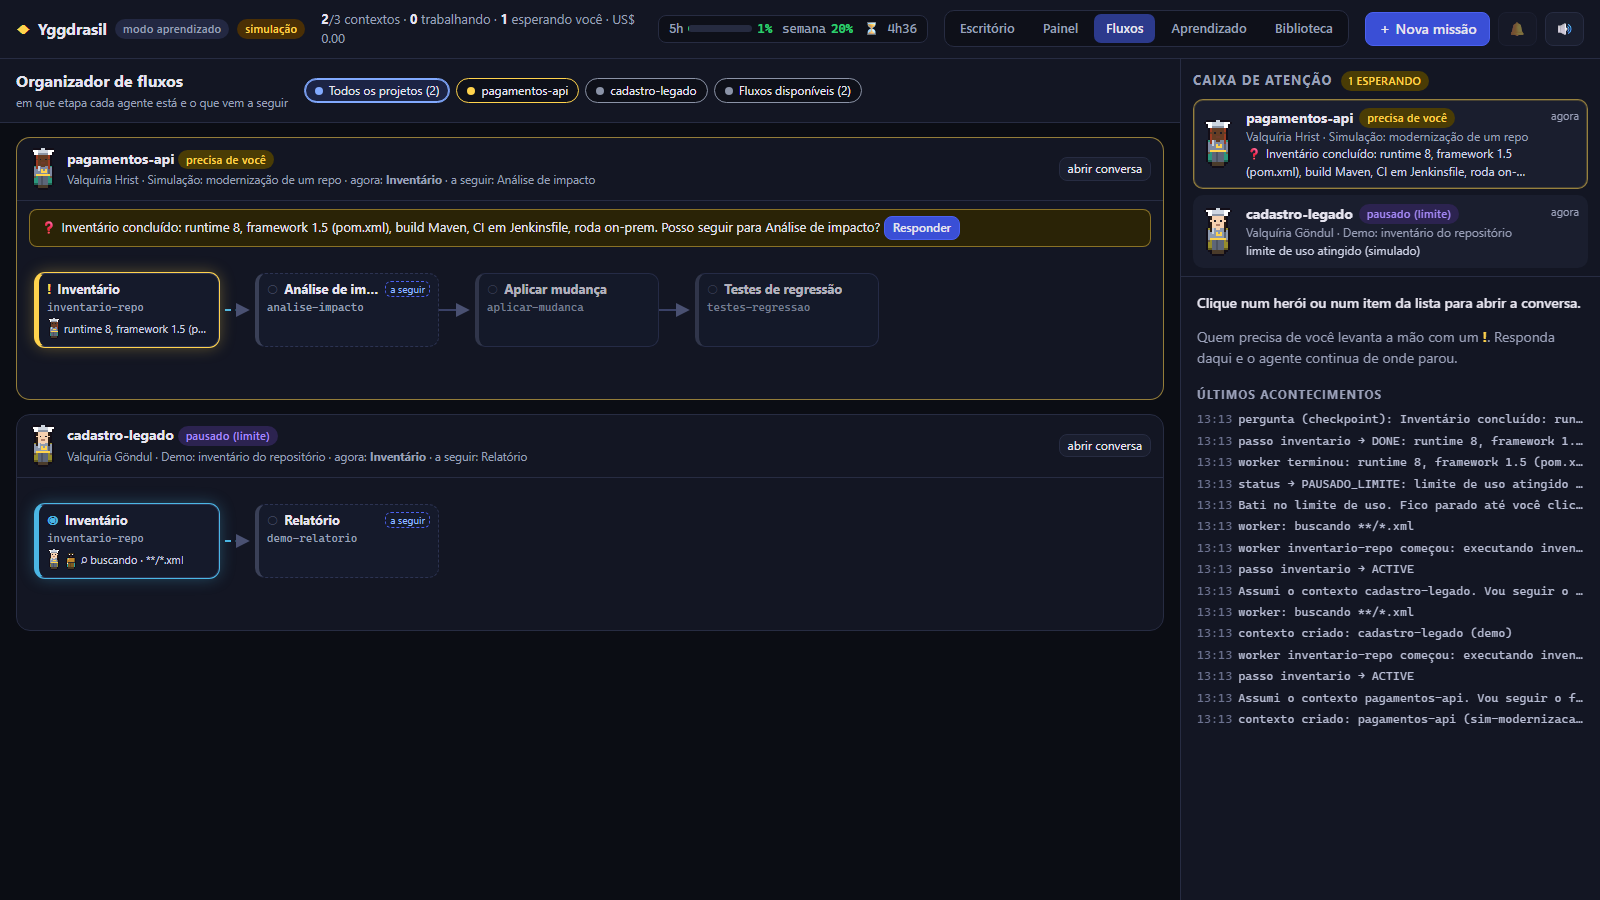
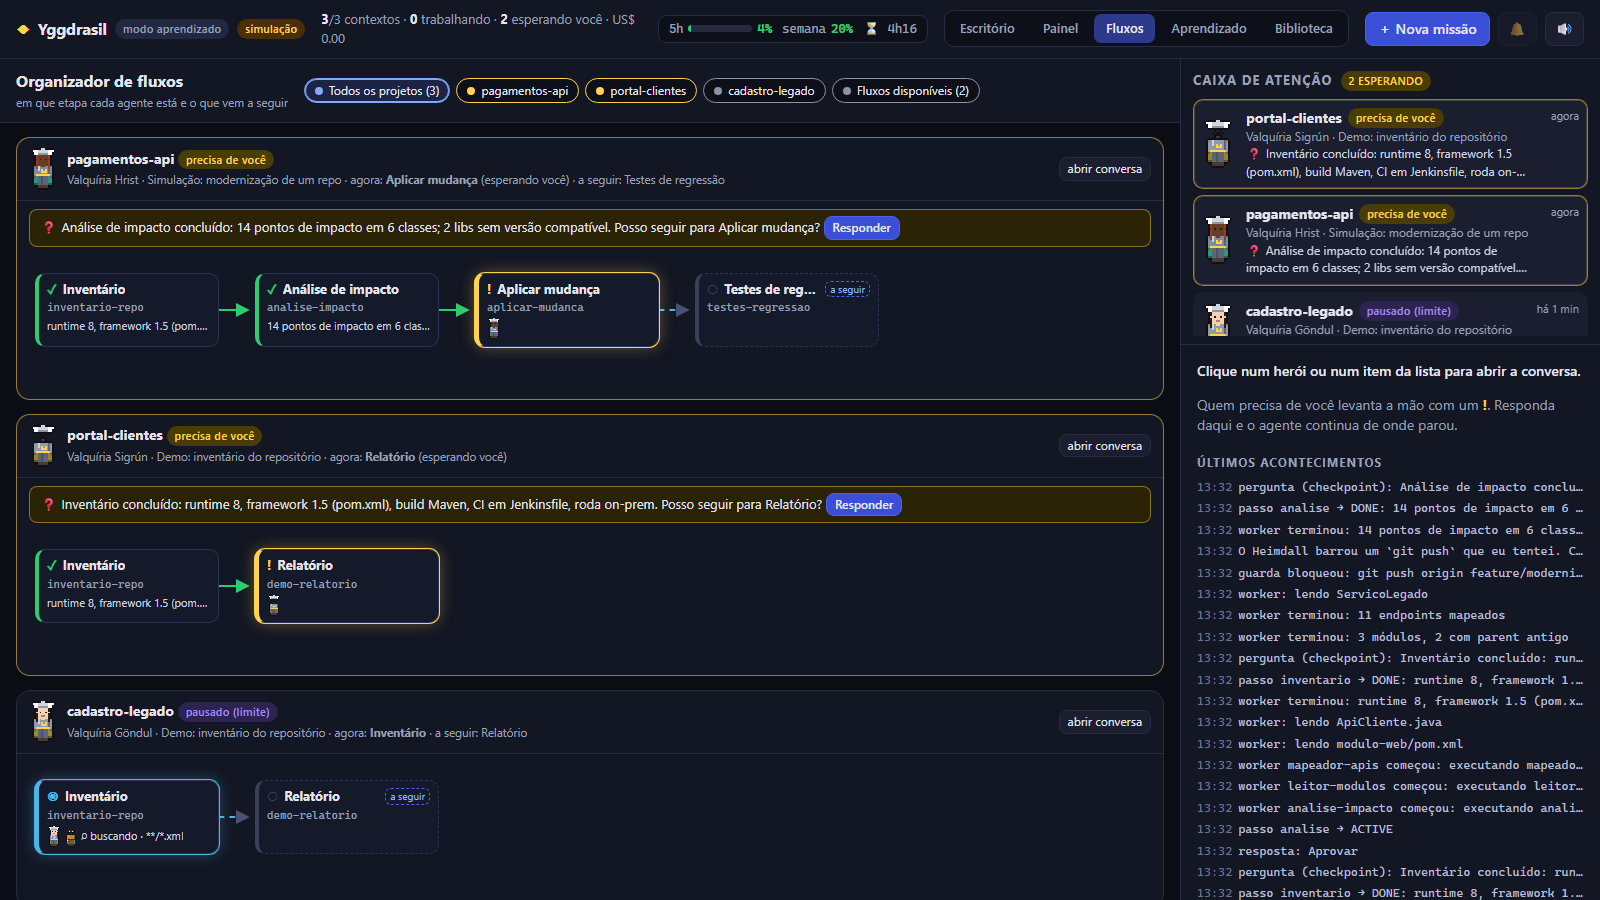
fix: checkpoint marca a etapa que libera; imagens do README em modo demonstração (núcleo v0.2.1)
- o checkpoint marca a etapa da chave passo:<id> e não rebaixa etapa concluída
- organizador mostra como "agora" a etapa em andamento ou esperando você
- CLAUDE.md das instâncias sem versão fixa
- todas as imagens do README refeitas com a versão atual (3 projetos na demonstração)

diff --git a/.claude/office/fluxos.js b/.claude/office/fluxos.js
@@ -64,6 +64,8 @@ export function criarFluxos(raiz, { onAbrirContexto, onConvocar } = {}) {
     const nodes = c.atlas.nodes.length ? c.atlas.nodes : [];
     const { pos, largura, altura } = layout(nodes, c.atlas.edges);
     const prox = aSeguir(nodes, c.atlas.edges);
+    // "agora": a etapa em andamento ou esperando você; sem nenhuma, a última que o agente tocou
+    const agoraId = (nodes.find((n) => ['WAITING_APPROVAL', 'ACTIVE', 'ERROR', 'BLOCKED'].includes(n.status)) || {}).id || c.passoAtual;
     const ativosPorPasso = new Map();
     for (const a of c.agents) if (a.status === 'WORKING' || a.status === 'WAITING_APPROVAL') {
       const p = a.passo || c.passoAtual; if (!p) continue;
@@ -82,7 +84,7 @@ export function criarFluxos(raiz, { onAbrirContexto, onConvocar } = {}) {
       const p = pos.get(n.id); if (!p) return '';
       const st = n.status;
       const quem = ativosPorPasso.get(n.id) || [];
-      const liderAqui = c.passoAtual === n.id && !['CONCLUIDO', 'PARADO'].includes(c.status);
+      const liderAqui = agoraId === n.id && !['CONCLUIDO', 'PARADO'].includes(c.status);
       const avs = [
         ...(liderAqui ? [`<img src="${avatar(specPorEstilo(estiloL, c.repo))}" title="${esc(nomeDaLider(tema, c.repo))} (líder)" class="fx-av lider">`] : []),
         ...quem.slice(0, 4).map((a) => `<img src="${avatar(specPorEstilo(estiloW, a.skill, ((tema.herois || {})[a.skill] || {}).cores || {}))}" title="${esc(nomeDoWorker(tema, a.skill))} · ${esc(a.role)}" class="fx-av">`),
@@ -96,14 +98,14 @@ export function criarFluxos(raiz, { onAbrirContexto, onConvocar } = {}) {
         <div class="fx-linha">${avs}<span>${linhaAt}</span></div>
       </div>`;
     }).join('');
-    const atual = nodes.find((n) => n.id === c.passoAtual);
+    const atual = nodes.find((n) => n.id === agoraId);
     const proxNomes = [...prox].map((id) => (nodes.find((n) => n.id === id) || {}).label || id);
     const pergunta = c.pergunta ? `<div class="fx-pergunta">❓ ${esc(c.pergunta.texto)} <button class="btn primario mini" data-abrir="${esc(c.id)}" type="button">Responder</button></div>` : '';
     return `<section class="fx-faixa st-ctx-${c.status}">
       <header class="fx-cab">
         <img src="${avatar(specPorEstilo(estiloL, c.repo))}" class="fx-av grande" alt="">
         <div class="fx-cab-txt"><div><b>${esc(c.repo)}</b> <span class="chip st-${c.status}">${ROT_CTX[c.status] || c.status}</span></div>
-          <small>${esc(nomeDaLider(tema, c.repo))} · ${esc(c.fluxoNome)}${atual ? ` · agora: <b>${esc(atual.label)}</b>` : ''}${proxNomes.length ? ` · a seguir: ${esc(proxNomes.join(', '))}` : ''}</small></div>
+          <small>${esc(nomeDaLider(tema, c.repo))} · ${esc(c.fluxoNome)}${atual ? ` · agora: <b>${esc(atual.label)}</b>${atual.status === 'WAITING_APPROVAL' ? ' (esperando você)' : ''}` : ''}${proxNomes.length ? ` · a seguir: ${esc(proxNomes.join(', '))}` : ''}</small></div>
         <button class="btn mini" data-abrir="${esc(c.id)}" type="button">abrir conversa</button>
       </header>
       ${pergunta}

diff --git a/.claude/office/estado.js b/.claude/office/estado.js
@@ -337,7 +337,12 @@ function projetar(eventos, { fluxos = {}, config = {} } = {}) {
         c.motivo = null;
         c.decisoes.push({ id: c.pergunta.id, tipo, chave: ev.chave || null, texto: c.pergunta.texto, explicacao: c.pergunta.explicacao, opcoes: c.pergunta.opcoes, passo: c.passoAtual, desde: ev.ts, resposta: null, respondidaEm: null });
         if (c.decisoes.length > 40) c.decisoes.shift();
-        if (tipo === 'checkpoint' && c.passoAtual) marcarNo(c, c.passoAtual, 'WAITING_APPROVAL');
+        if (tipo === 'checkpoint') {
+          // o checkpoint libera a etapa da chave (passo:<id>); sem chave, a atual. Nunca rebaixa etapa concluída.
+          const alvoNo = ev.chave && String(ev.chave).startsWith('passo:') ? String(ev.chave).slice(6) : c.passoAtual;
+          const no = alvoNo && c.atlas.nodes.find((n) => n.id === alvoNo);
+          if (alvoNo && (!no || (no.status !== 'DONE' && no.status !== 'ERROR'))) marcarNo(c, alvoNo, 'WAITING_APPROVAL');
+        }
         for (const a of c.agents) if (a.status === 'WORKING' && tipo === 'checkpoint') a.status = 'WAITING_APPROVAL';
         break;
       }
@@ -348,7 +353,7 @@ function projetar(eventos, { fluxos = {}, config = {} } = {}) {
         c.pergunta = null;
         c.aguardandoTerminal = false;
         if (c.status === 'PRECISA_DE_VOCE') c.status = 'TRABALHANDO';
-        for (const n of c.atlas.nodes) if (n.status === 'WAITING_APPROVAL') n.status = 'ACTIVE';
+        for (const n of c.atlas.nodes) if (n.status === 'WAITING_APPROVAL') n.status = n.id === c.passoAtual ? 'ACTIVE' : 'PENDING';
         for (const a of c.agents) if (a.status === 'WAITING_APPROVAL') a.status = 'WORKING';
         break;
       }
@@ -557,6 +562,7 @@ function autoteste() {
   const c1 = e.contextos.find((c) => c.id === 'c1');
   checar(c1.status === 'PRECISA_DE_VOCE', 'CA2.3: pergunta deveria deixar c1 em PRECISA_DE_VOCE');
   checar(c1.atlas.nodes.find((n) => n.id === 'b').status === 'WAITING_APPROVAL', 'checkpoint deveria marcar o nó b como WAITING_APPROVAL');
+  checar(c1.atlas.nodes.find((n) => n.id === 'a').status === 'DONE', 'checkpoint não pode rebaixar etapa concluída (a)');
   checar(c1.agents[0].status === 'DONE' && c1.agents[0].summary === 'ok', 'worker w1 deveria estar DONE com resumo');
   checar(c1.heroi === 'skill-b', 'herói deveria ser o do passo atual (skill-b)');
   checar(e.pendencias === 1 && e.status === 'WAITING_APPROVAL' && e.foco === 'c1', 'topo deveria apontar a pendência de c1');

diff --git a/docs/decisoes.md b/docs/decisoes.md
@@ -24,3 +24,5 @@ Registro das escolhas do Yggdrasil: o que foi decidido, por quê e o que ficou d
 | D18 | 2026-11-19 | **Mapa de aprendizado no poço de Mimir**: mindmap de lições por skill e diário por repo, com maturidade por skill | O que já se aprendeu é uma pergunta diferente de "como o trabalho anda" | Misturar aprendizado e andamento no mesmo mapa |
 | D19 | 2026-11-19 | **Biblioteca de skills nas estantes**: liga/desliga movendo a pasta para `.claude/skills-desativadas/`; `iniciar-fluxo` é essencial | Simples, reversível e respeitado pelo Claude Code, sem mexer em settings | Deny de `Skill(...)` no `settings.json` |
 | D20 | 2026-11-19 | **Limites de uso via ponte da statusline** (`statusline-ponte.js` grava `~/.claude/orq-limites.json` e repassa para a statusline do usuário) | A Claude Code só entrega `rate_limits` ao comando da statusline; a ponte não muda a linha do terminal | Chamar APIs de uso com o token do usuário |
+| D21 | 2026-11-19 | **O checkpoint marca a etapa que ele libera** (chave `passo:<id>`), nunca rebaixa uma etapa concluída; no organizador, "agora" é a etapa em andamento ou esperando você | O Inventário concluído voltava a aparecer "em andamento" depois da aprovação | Marcar sempre a etapa atual |
+| D22 | 2026-11-19 | **`CLAUDE.md` da instância sem versão fixa** (aponta para `NUCLEO_VERSAO`) | O arquivo não é atualizado pelo atualizador e ficava com a versão de criação | Reescrever o `CLAUDE.md` da instância na atualização |

diff --git a/scripts/modelos/CLAUDE.instancia.md b/scripts/modelos/CLAUDE.instancia.md
@@ -1,6 +1,6 @@
 # {{NOME}} — orquestrador do time {{TIME}}
 
-Instância do **Yggdrasil**, núcleo v{{VERSAO}}. O núcleo (`.claude/nucleo.md`, agents, hooks, office e skills do núcleo) vem do molde. Melhorias genéricas vão para o Yggdrasil e chegam aqui por `scripts/atualizar-nucleo.js`. O que é do time fica em `time/`.
+Instância do **Yggdrasil** (versão do núcleo em `NUCLEO_VERSAO`). O núcleo (`.claude/nucleo.md`, agents, hooks, office e skills do núcleo) vem do molde. Melhorias genéricas vão para o Yggdrasil e chegam aqui por `scripts/atualizar-nucleo.js`. O que é do time fica em `time/`.
 
 - Office: `/office` → http://localhost:{{PORTA}}. Para o protótipo sem Claude, use `/office simular`.
 - Começar um ciclo: `/iniciar-fluxo <fluxo> <repo>`. Os fluxos ficam em `time/fluxos/` e os repositórios em `repos/`.

diff --git a/specs/_nucleo/tarefas.md b/specs/_nucleo/tarefas.md
@@ -22,6 +22,7 @@
 | T18 | Mapa de aprendizado (poço de Mimir) + `/aprendizado` (lições, diário, execuções, placar, maturidade) | — | feito (v0.2.0) |
 | T19 | Biblioteca de skills: liga/desliga (`skills-desativadas/`), `estado.js skill`, `POST /skills`; atualizador respeita skills desligadas | CA7.2 | feito (v0.2.0) |
 | T20 | Limites de uso no topo via `statusline-ponte.js` (`~/.claude/orq-limites.json`) | — | feito (v0.2.0) |
+| T21 | Checkpoint marca a etapa que libera (`passo:<id>`); "agora" no organizador; imagens do README refeitas em modo demonstração | CA2.3, CA4.1 | feito (v0.2.1) |
 
 ## Como verificar
 
